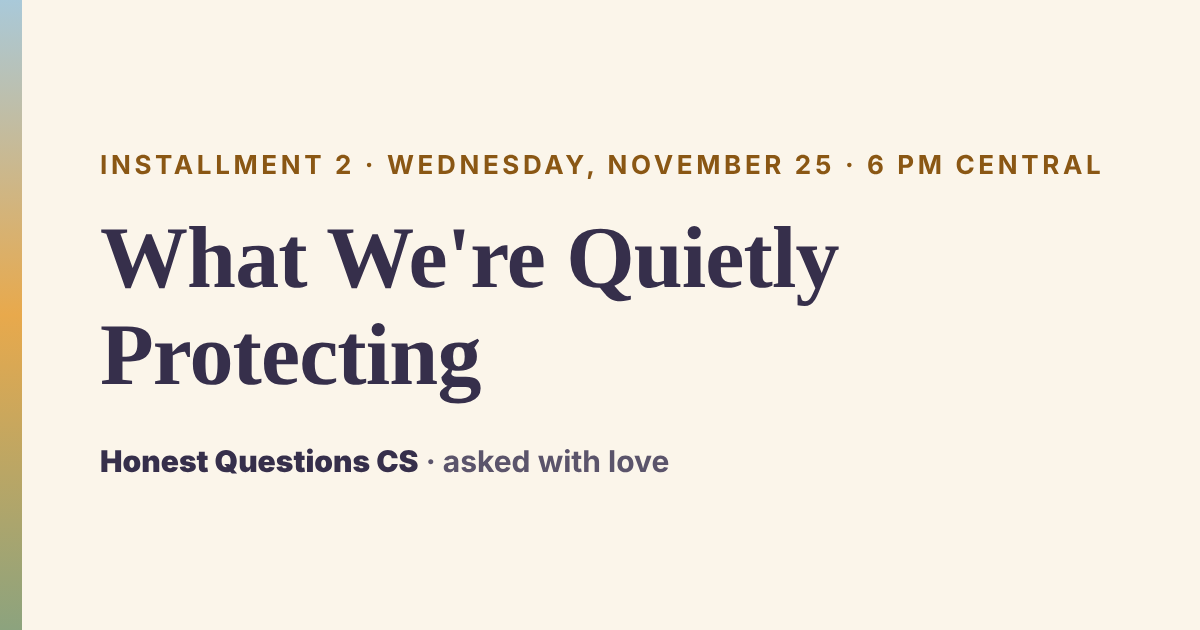
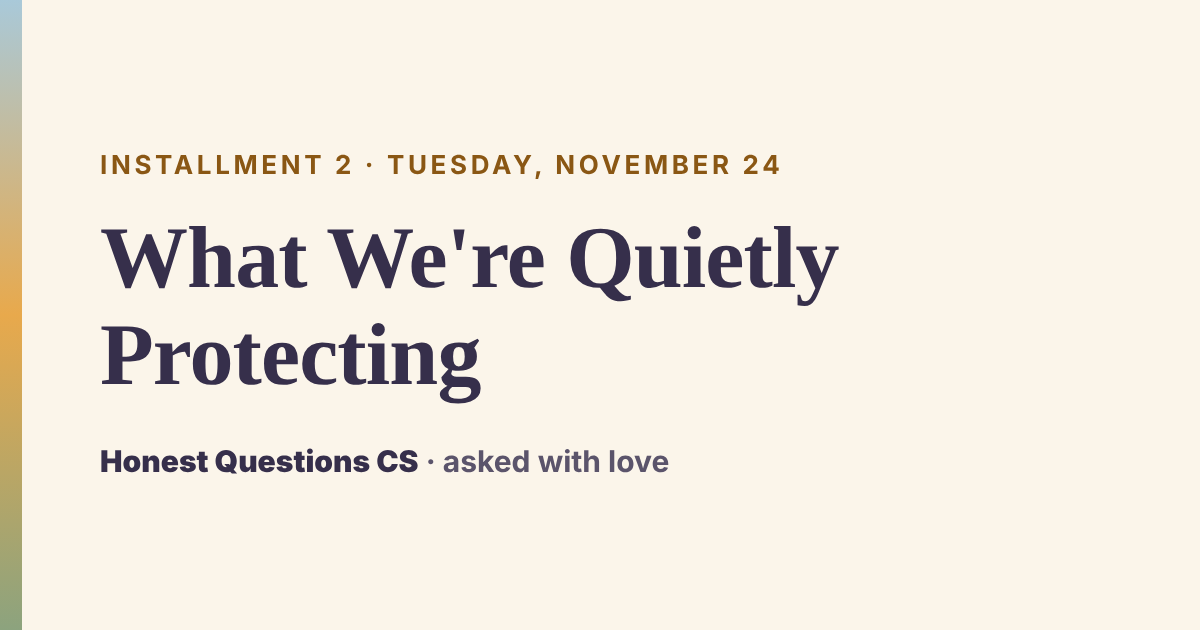
Add Part 2 (What We're Quietly Protecting) to the page; card, permalink and link-card updated; Part 1 roadmap undated (#50)
Claude-Session: https://claude.ai/code/session_014rnYdsF7BDCfePLPQiGgsV

Changed region(s): [[0.3083, 0.2413, 0.925, 0.3016]]

diff --git a/honest-questions/posts/2.html b/honest-questions/posts/2.html
@@ -1,0 +1,38 @@
+<div class="series-note"><strong>Part 2 of 3</strong> in <em>Honest Questions CS</em>, a short series on the questions beneath the surface, the ones that rarely get asked out loud. I&rsquo;m not the only one asking them. I love Christian Science, and joining in is what I&rsquo;ve been led to do. New here? Start with the preview and Part 1 above.</div>
+
+<p>Here&rsquo;s the question I&rsquo;ve been sitting with: the essence of Christian Science doesn&rsquo;t need protecting, so what are we quietly protecting?</p>
+
+<p>My hypothesis: the essence is safe, and what we protect, without meaning to, is something we love that isn&rsquo;t it. If you&rsquo;re already thinking, <em>&ldquo;But we don&rsquo;t count numbers, and it will resurge,&rdquo;</em> good. That&rsquo;s the right objection, and we&rsquo;ll face it.</p>
+
+<p>Let me be clear about what I&rsquo;m not doing. The Manual asks us not to count members, and I&rsquo;m keeping that. I&rsquo;m not counting anyone, and I&rsquo;m not asking anyone to. I&rsquo;m describing what I can see with my own eyes: empty pews, and a handful of people in large, beautiful buildings.</p>
+
+<p>I was on a road trip and wanted to go to church on a Sunday morning, so I looked in the <em>Journal</em> and found one church. In a large, beautiful room there were five people. The music came from a recording because there was no pianist. The readers came up and read with great formality. I felt tender toward every one of them. They had kept the doors open.</p>
+
+<p>When I got to my destination, I mentioned it to some fellow Christian Scientists. &ldquo;We don&rsquo;t count numbers,&rdquo; I was told. &ldquo;There&rsquo;s no reason to stand aghast at nothingness.&rdquo;</p>
+
+<p>I was upset, because what I saw is true. The kids in my Sunday school class tell me their last Sunday school had one person in it. That conversation showed me the shape of the silence: unspoken rules. <em>Don&rsquo;t sound like you doubt. Don&rsquo;t talk about the empty Sunday schools.</em></p>
+
+<p>I don&rsquo;t think these rules are wrong at the root. They come from love and loyalty, and from not wanting to measure Truth by matter. But if the essence doesn&rsquo;t need protecting, what do the rules protect?</p>
+
+<p>A fellow Christian Scientist might say that trust is enough, and that it will resurge. I agree with the heart of it: Truth isn&rsquo;t measured by a headcount, and prayer and faithfulness matter even when no one is watching. I teach a Sunday school class, and I&rsquo;ve always said that if no one came, I would still sit there, pray for it, and cherish it.</p>
+
+<p>But I would also be sad. Not because the truth needs an audience, but because a young person would have lost a safe place to think about God. So here&rsquo;s my adjustment: trust and invitation aren&rsquo;t opposites. If I&rsquo;m hosting a dinner and nobody comes, I can trust the table is good and still ask whether I sent the invitations. Let&rsquo;s pray. Let&rsquo;s be there. And shouldn&rsquo;t we also be sad, and go out and find people and give them the chance to see for themselves? That&rsquo;s my highest sense of what&rsquo;s right.</p>
+
+<p>The silence costs real people. A teenager loses a safe place to think about God. People I love, new to this country and hungry to dive in, can&rsquo;t find words they can take in.</p>
+
+<p>The disciples had fished all night and caught nothing. &ldquo;Cast the net on the right side of the ship, and ye shall find&rdquo; (John 21:6). Same sea. Same fish. A different cast. Not to catch anyone. To say there&rsquo;s room.</p>
+
+<p>The heart of this was never the pews. This Science is for everyone.</p>
+
+<p>So what are we quietly protecting? Not the heart of it. I think it&rsquo;s a memory. More in Part 3.</p>
+
+<div class="test-this">
+  <h3>Two claims to test</h3>
+  <p>I promised each installment would give you claims to test. Here are two, one objection from inside our community, one from outside:</p>
+  <p><strong>1. &ldquo;Naming an empty Sunday school means doubting Christian Science, or breaking the Manual.&rdquo;</strong> The next time you notice an empty room, say what you see (not a count), kindly, then pray. Notice whether your trust shrinks or grows.</p>
+  <p><strong>2. &ldquo;Christian Science is fading because it doesn&rsquo;t want newcomers.&rdquo;</strong> When has the door opened easily for someone? When has it stuck?</p>
+</div>
+
+<p>Honest questions, asked in love: what&rsquo;s one thing you wish we could say out loud about our empty rooms? If you&rsquo;ve stepped away, or never came in, I&rsquo;d especially love to hear from you.</p>
+
+<p class="series-next"><strong>Next in the series:</strong><br>Part 3: <em>The Church We Remember</em>, coming soon</p>

diff --git a/honest-questions/p/2.html b/honest-questions/p/2.html
@@ -5,11 +5,11 @@
 <meta name="viewport" content="width=device-width, initial-scale=1">
 <title>What We&#x27;re Quietly Protecting | Honest Questions CS</title>
 <meta name="robots" content="noindex, nofollow">
-<meta name="description" content="Many of us follow some unspoken rules: don’t sound like you doubt, don’t admit when something didn’t work, don’t talk about the people who have left. This post says them out loud.">
+<meta name="description" content="Five people in a large, beautiful church, and a reply that closed the conversation: “no reason to stand aghast at nothingness.” I’m not counting anyone. I’m asking what we’re quietly protecting, and why trust and invitation aren’t opposites.">
 <meta property="og:type" content="article">
 <meta property="og:site_name" content="Honest Questions CS">
 <meta property="og:title" content="What We&#x27;re Quietly Protecting">
-<meta property="og:description" content="Many of us follow some unspoken rules: don’t sound like you doubt, don’t admit when something didn’t work, don’t talk about the people who have left. This post says them out loud.">
+<meta property="og:description" content="Five people in a large, beautiful church, and a reply that closed the conversation: “no reason to stand aghast at nothingness.” I’m not counting anyone. I’m asking what we’re quietly protecting, and why trust and invitation aren’t opposites.">
 <meta property="og:url" content="https://www.spirituallessonplans.org/honest-questions/p/2">
 <meta property="og:image" content="https://www.spirituallessonplans.org/honest-questions/og-2.png">
 <meta property="og:image:width" content="1200">
@@ -22,7 +22,7 @@
 <body style="font-family: Georgia, serif; max-width: 34rem; margin: 3rem auto; padding: 0 1rem; line-height: 1.6;">
 <p><strong>Honest Questions CS</strong></p>
 <h1>What We&#x27;re Quietly Protecting</h1>
-<p>Many of us follow some unspoken rules: don’t sound like you doubt, don’t admit when something didn’t work, don’t talk about the people who have left. This post says them out loud.</p>
+<p>Five people in a large, beautiful church, and a reply that closed the conversation: “no reason to stand aghast at nothingness.” I’m not counting anyone. I’m asking what we’re quietly protecting, and why trust and invitation aren’t opposites.</p>
 <p><a href="../#post-2">Continue to the series</a></p>
 </body>
 </html>

diff --git a/honest-questions/index.html b/honest-questions/index.html
@@ -52,7 +52,7 @@
         <li class="seg"><a href="#post-3">3</a></li>
       </ol>
       <p class="next" id="next-post"></p>
-      <p class="progress-note">A new post every three days at 6&nbsp;PM Central. They collect here, in order.</p>
+      <p class="progress-note">New posts arrive every few days and collect here, in order.</p>
     </div>
   </div>
 </header>
@@ -109,10 +109,10 @@
       <span class="slot-num" aria-hidden="true">2</span>
       <p class="slot-state">Coming soon</p>
       <p class="slot-label">Installment 2</p>
-      <p class="slot-angle">Commitments we hold without naming them</p>
+      <p class="slot-angle">What we don&rsquo;t say out loud</p>
       <h2 class="slot-title">What We&rsquo;re Quietly Protecting</h2>
-      <p class="slot-when">Wednesday, November 25 &middot; 6&nbsp;PM Central</p>
-      <p class="slot-abstract">Many of us follow some unspoken rules: don&rsquo;t sound like you doubt, don&rsquo;t admit when something didn&rsquo;t work, don&rsquo;t talk about the people who have left. They come from love and loyalty. This post says them out loud, so we can ask whether they&rsquo;re protecting what matters or keeping young people out, and why our shrinking numbers are so hard to talk about.</p>
+      <p class="slot-when">Tuesday, November 24 &middot; 2:30&nbsp;PM Central</p>
+      <p class="slot-abstract">Five people in a large, beautiful church, and a reply that closed the conversation: &ldquo;no reason to stand aghast at nothingness.&rdquo; I&rsquo;m not counting anyone. I&rsquo;m asking what we&rsquo;re quietly protecting, and why trust and invitation aren&rsquo;t opposites.</p>
     </section>
     <section class="slot is-soon a3 reveal" id="post-3" data-post="3">
       <span class="slot-num" aria-hidden="true">3</span>

diff --git a/honest-questions/posts/1.html b/honest-questions/posts/1.html
@@ -32,4 +32,4 @@
 
 <p>Same truth. A door that&rsquo;s easier to walk through. Honest questions, asked in love: have you been on either side of that door? I&rsquo;d love to hear.</p>
 
-<p class="series-next"><strong>Next in the series, at 6 PM Central:</strong><br>Part 2, Wednesday, November 25: <em>What We&rsquo;re Quietly Protecting</em><br>Part 3, Saturday, November 28: <em>The Church We Remember</em></p>
+<p class="series-next"><strong>Next in the series:</strong><br>Part 2: <em>What We&rsquo;re Quietly Protecting</em><br>Part 3: <em>The Church We Remember</em></p>
